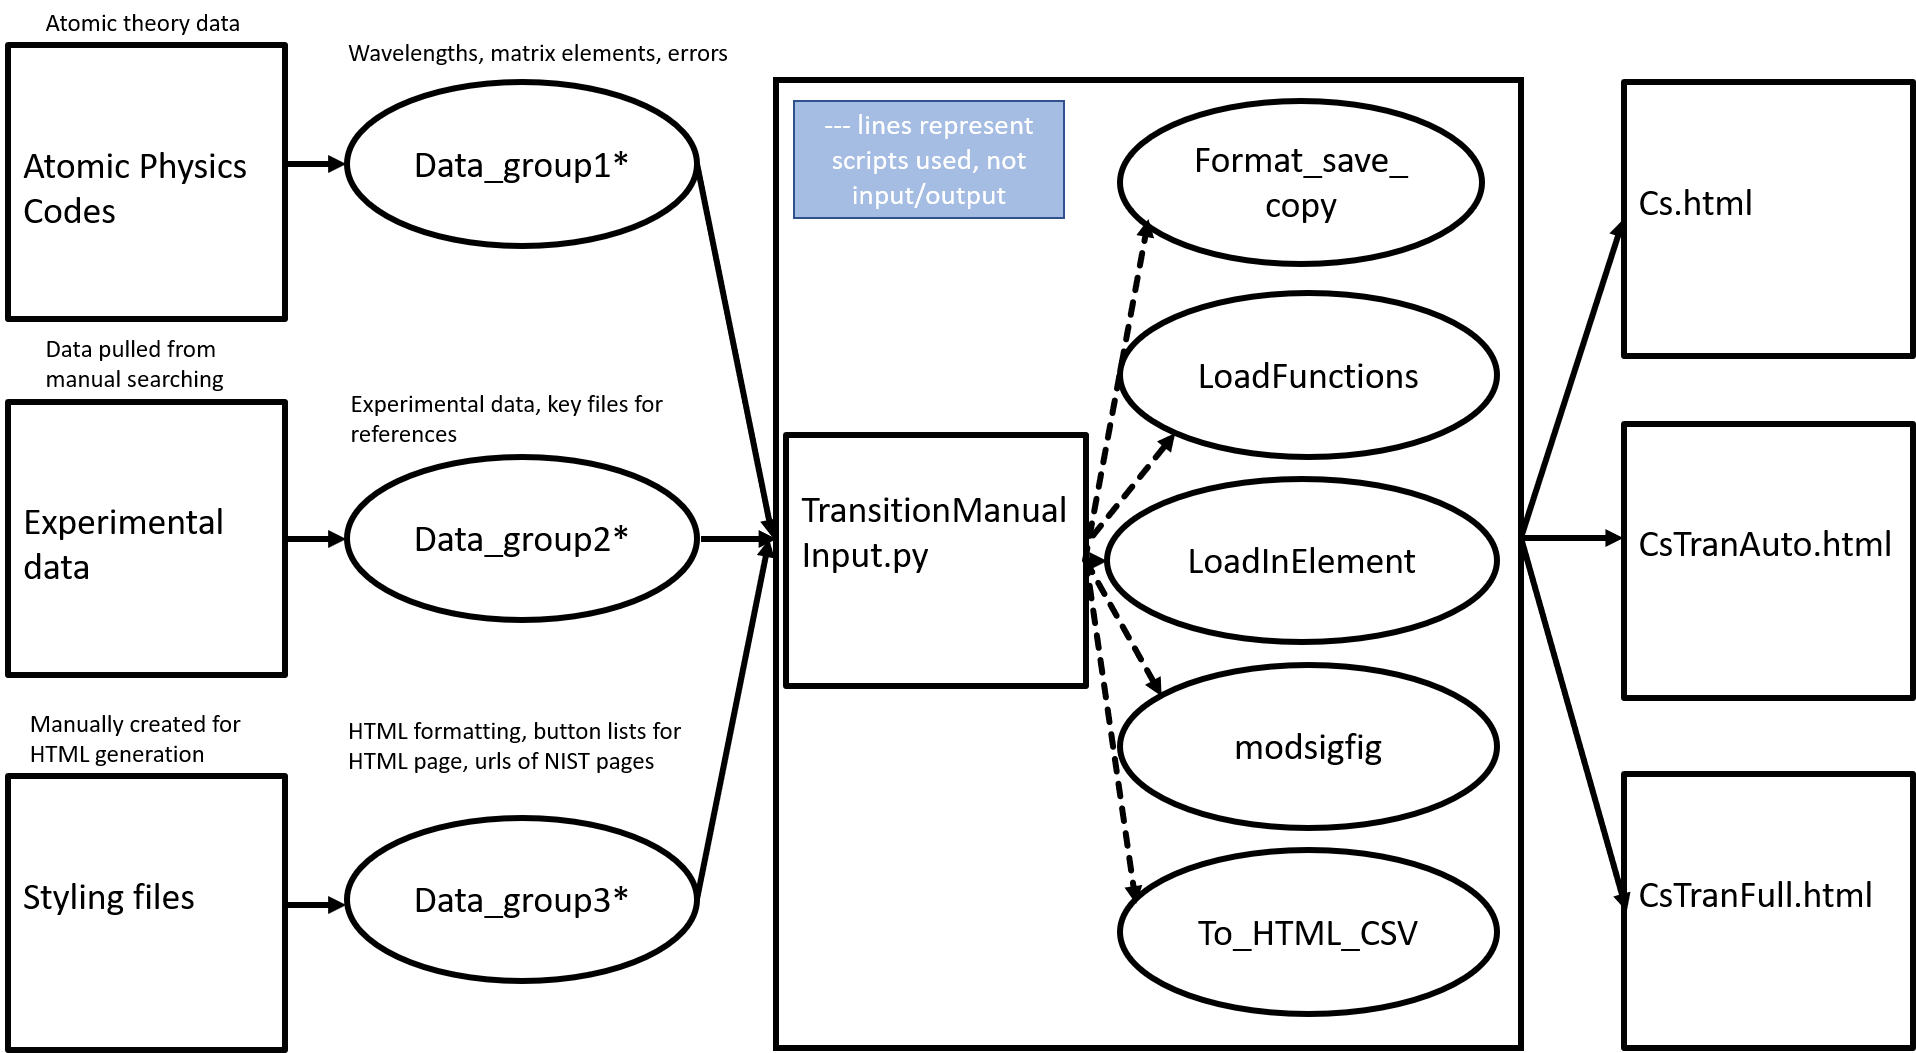
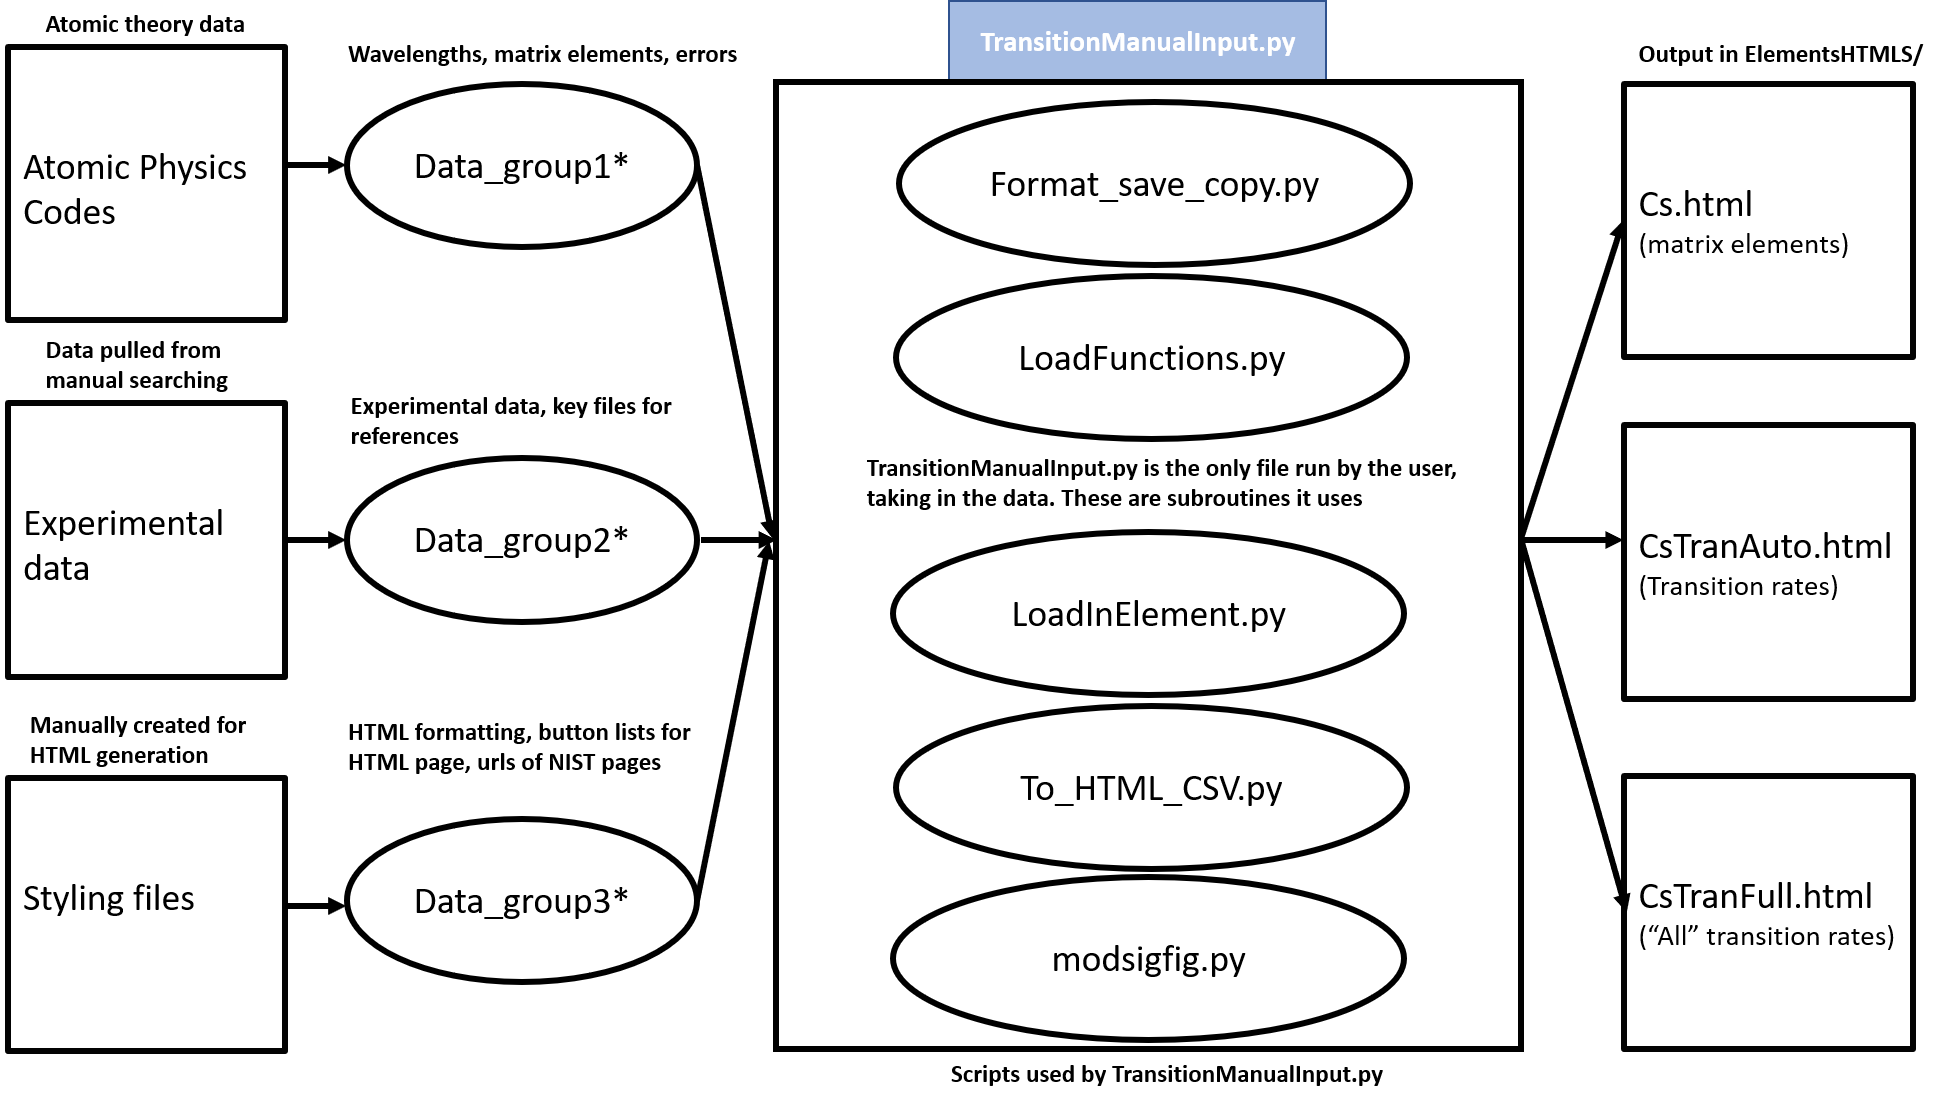
'major commit'

diff --git a/docs/data.md b/docs/data.md
@@ -34,6 +34,12 @@ Files are:
 
 Energies and matrix elements values are stored in folders within the Data folder named after the element in use, i.e. "Cs" or "BaII".
 
+Note: Data/Stylings has the custom styling and functionality for the HTML modals, which is what controls how the Help buttons and Info buttons pop up.
+However, these files are saved directly in the main directory of the web portal.
+
+Modification of how the pop ups look or function should be done
+on the files directly on the web portal. See "Uploading to Site" for information on how to access this directory.
+
 ###-Element subdirectories ("Data/BaII")
 Every element needs its own sub-folder, named in this convention: "Cs", "BaII", "Fr". These are located in "Data" as subdirectories.
 These folders need three files: datapol, rates1, and rates2.

diff --git a/docs/index.md b/docs/index.md
@@ -1,6 +1,3 @@
 # Welcome to Atom web portal documentation
 This site provides documentation on how to generate the HTML pages for the Portal for High-Precision Atomic Data and Computation. The site can be reached at  
 <https://www1.udel.edu/atom>
-
-#Flowchart
-<img src="Flowchart.png" alt="Italian Trulli">
